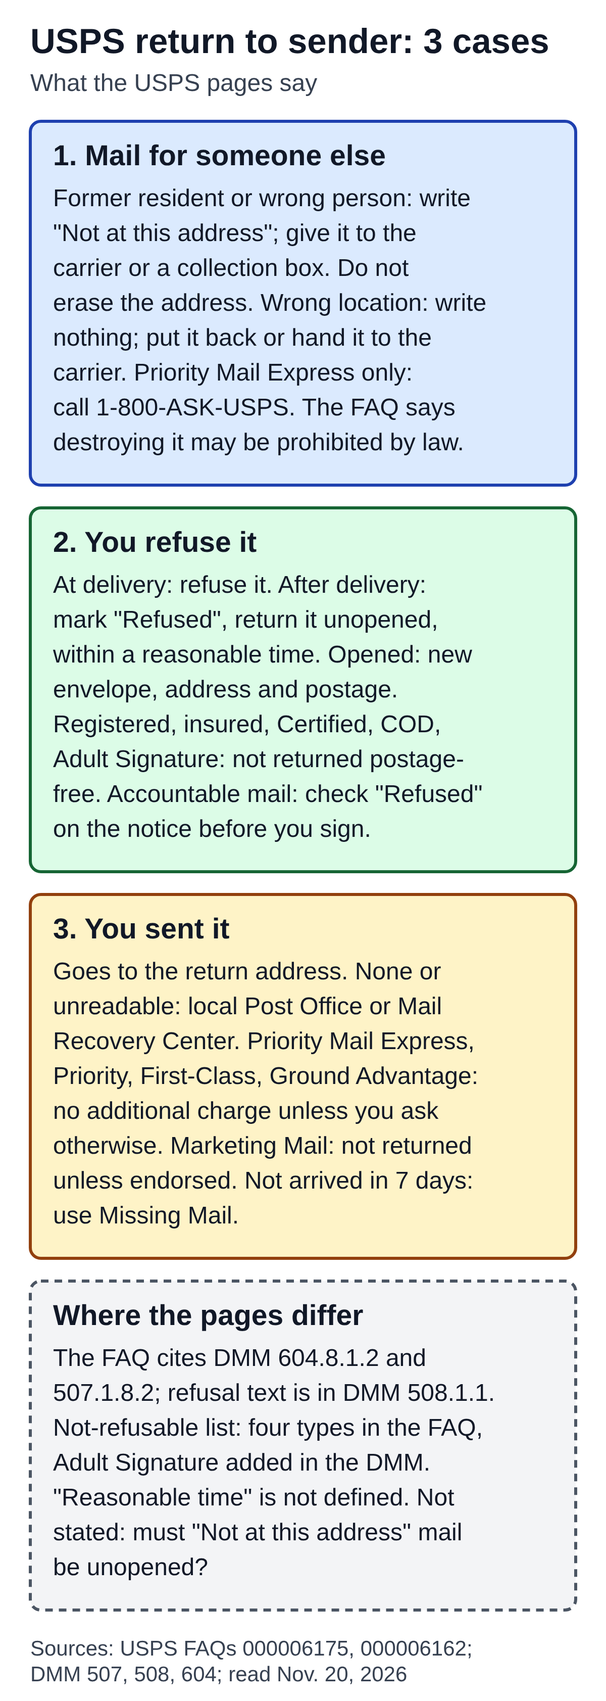
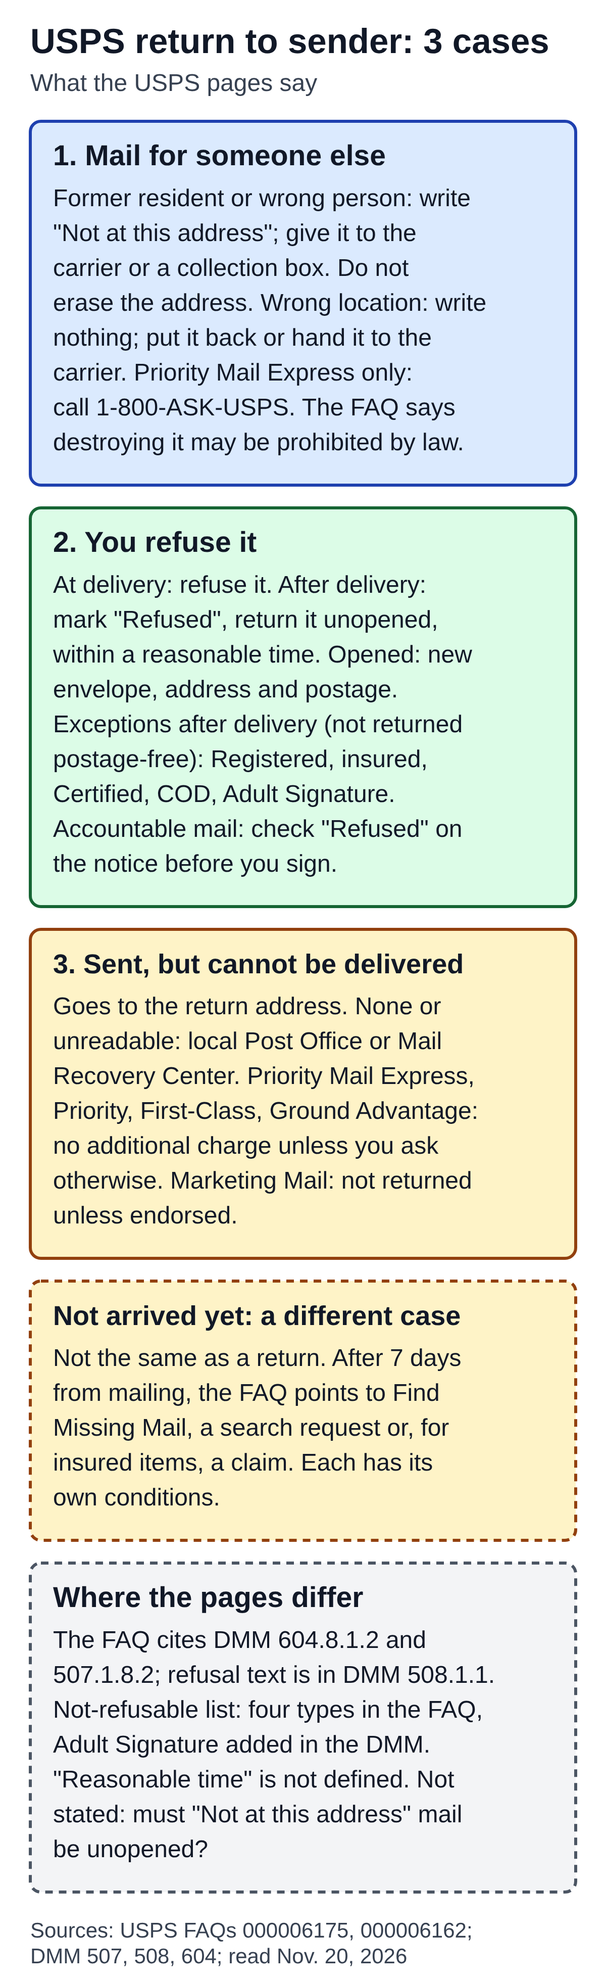
Apply Gate 2 round 1 FIX to the redelivery and return to sender drafts
Redelivery: add the USPS Electronic Signature Online exception to the body,
diagram and alt where signature mail was said to need you or your agent there.
Return to sender: separate returned mail from mail that has not arrived in the
diagram, alt, table and body; show the exceptions after delivery in the refuse
row. QA records, decision log and backlog updated.

Claude-Session: https://claude.ai/code/session_01BXtGEA3Qzg6u2ejRb8jbFU

diff --git a/content/drafts/usps-return-to-sender-how-it-works.md b/content/drafts/usps-return-to-sender-how-it-works.md
@@ -8,7 +8,7 @@ status: draft
 date: 2026-11-20
 internal_link_candidates: usps-missing-mail-search-how-it-works, usps-tracking-status-what-it-means, usps-mail-forwarding-how-long, usps-certified-mail-how-it-works (all live; each linked once in the body; decide at Gate 2). After the redelivery article is published, a link to it from the "refuse" section is proposed, not applied.
 image: assets/optimized/usps-return-to-sender-how-it-works.png
-image_alt: "What USPS pages say about return to sender, which they treat as three situations. 1, mail for someone else: for a previous resident or a person who does not live there, write 'Not at this address' and give it to the carrier or a collection box, without erasing the address; for a piece delivered to the wrong location, write nothing and put it back or hand it to the carrier; for Priority Mail Express only, call 1-800-ASK-USPS; the FAQ says destroying mail not meant for you may be prohibited by law. 2, you refuse it: refuse it when offered, or after delivery mark it 'Refused' and return it unopened within a reasonable time; an opened piece needs a new envelope, correct address and new postage; Registered, insured, Certified, COD and Adult Signature mail cannot be returned postage-free after delivery; accountable mail can be refused before signing by checking 'Refused' on the notice. 3, you sent it: it goes to the return address; with none, the local Post Office or the Mail Recovery Center handles it; Priority Mail Express, Priority Mail, First-Class Mail and USPS Ground Advantage are returned at no additional charge unless the sender asks otherwise; USPS Marketing Mail is not returned unless endorsed; if it has not arrived in 7 days, use Missing Mail. Where the pages differ: the refusal FAQ cites DMM 604.8.1.2 and 507.1.8.2 but the refusal text is in DMM 508.1.1; the FAQ's not-refusable list has four types and the DMM adds Adult Signature; a reasonable time is not defined; the pages do not say whether 'Not at this address' mail must be unopened. Sources: USPS FAQs 000006175 and 000006162 and DMM 507, 508 and 604, read Nov. 20, 2026."
+image_alt: "What USPS pages say about return to sender, which they treat as three situations. 1, mail for someone else: for a previous resident or a person who does not live there, write 'Not at this address' and give it to the carrier or a collection box, without erasing the address; for a piece delivered to the wrong location, write nothing and put it back or hand it to the carrier; for Priority Mail Express only, call 1-800-ASK-USPS; the FAQ says destroying mail not meant for you may be prohibited by law. 2, you refuse it: refuse it when offered, or after delivery mark it 'Refused' and return it unopened within a reasonable time; an opened piece needs a new envelope, correct address and new postage; Registered, insured, Certified, COD and Adult Signature mail cannot be returned postage-free after delivery; accountable mail can be refused before signing by checking 'Refused' on the notice. 3, you sent it and USPS cannot deliver it: it goes to the return address; with none, the local Post Office or the Mail Recovery Center handles it; Priority Mail Express, Priority Mail, First-Class Mail and USPS Ground Advantage are returned at no additional charge unless the sender asks otherwise; USPS Marketing Mail is not returned unless endorsed. Separate case, not arrived yet: this is not the same as a return; if it has not arrived within 7 days from mailing, the FAQ points to Find Missing Mail, a search request or, for insured items, a claim, each with its own conditions. Where the pages differ: the refusal FAQ cites DMM 604.8.1.2 and 507.1.8.2 but the refusal text is in DMM 508.1.1; the FAQ's not-refusable list has four types and the DMM adds Adult Signature; a reasonable time is not defined; the pages do not say whether 'Not at this address' mail must be unopened. Sources: USPS FAQs 000006175 and 000006162 and DMM 507, 508 and 604, read Nov. 20, 2026."
 ---
 
 # USPS Return to Sender: Refused, Misdelivered, Undeliverable
@@ -17,15 +17,17 @@ image_alt: "What USPS pages say about return to sender, which they treat as thre
 
 This article compares what two USPS FAQs and the Domestic Mail Manual (DMM) say: the FAQ "How is Undeliverable and Misdelivered Mail Handled?" (Article 000006175, dated May 19, 2026), the FAQ "Refuse unwanted mail and remove name from mailing lists" (Article 000006162, dated September 3, 2026), and DMM 508 (recipient options), 507 (returning mail and dead mail) and 604 (postage), read as posted on Postal Explorer on November 20, 2026. The DMM pages show no update date. It reports what the pages say and does not decide which wording governs.
 
-![What USPS pages say about return to sender, which they treat as three situations. 1, mail for someone else: for a previous resident or a person who does not live there, write 'Not at this address' and give it to the carrier or a collection box, without erasing the address; for a piece delivered to the wrong location, write nothing and put it back or hand it to the carrier; for Priority Mail Express only, call 1-800-ASK-USPS; the FAQ says destroying mail not meant for you may be prohibited by law. 2, you refuse it: refuse it when offered, or after delivery mark it 'Refused' and return it unopened within a reasonable time; an opened piece needs a new envelope, correct address and new postage; Registered, insured, Certified, COD and Adult Signature mail cannot be returned postage-free after delivery; accountable mail can be refused before signing by checking 'Refused' on the notice. 3, you sent it: it goes to the return address; with none, the local Post Office or the Mail Recovery Center handles it; Priority Mail Express, Priority Mail, First-Class Mail and USPS Ground Advantage are returned at no additional charge unless the sender asks otherwise; USPS Marketing Mail is not returned unless endorsed; if it has not arrived in 7 days, use Missing Mail. Where the pages differ: the refusal FAQ cites DMM 604.8.1.2 and 507.1.8.2 but the refusal text is in DMM 508.1.1; the FAQ's not-refusable list has four types and the DMM adds Adult Signature; a reasonable time is not defined; the pages do not say whether 'Not at this address' mail must be unopened. Sources: USPS FAQs 000006175 and 000006162 and DMM 507, 508 and 604, read Nov. 20, 2026.](assets/optimized/usps-return-to-sender-how-it-works.png)
+![What USPS pages say about return to sender, which they treat as three situations. 1, mail for someone else: for a previous resident or a person who does not live there, write 'Not at this address' and give it to the carrier or a collection box, without erasing the address; for a piece delivered to the wrong location, write nothing and put it back or hand it to the carrier; for Priority Mail Express only, call 1-800-ASK-USPS; the FAQ says destroying mail not meant for you may be prohibited by law. 2, you refuse it: refuse it when offered, or after delivery mark it 'Refused' and return it unopened within a reasonable time; an opened piece needs a new envelope, correct address and new postage; Registered, insured, Certified, COD and Adult Signature mail cannot be returned postage-free after delivery; accountable mail can be refused before signing by checking 'Refused' on the notice. 3, you sent it and USPS cannot deliver it: it goes to the return address; with none, the local Post Office or the Mail Recovery Center handles it; Priority Mail Express, Priority Mail, First-Class Mail and USPS Ground Advantage are returned at no additional charge unless the sender asks otherwise; USPS Marketing Mail is not returned unless endorsed. Separate case, not arrived yet: this is not the same as a return; if it has not arrived within 7 days from mailing, the FAQ points to Find Missing Mail, a search request or, for insured items, a claim, each with its own conditions. Where the pages differ: the refusal FAQ cites DMM 604.8.1.2 and 507.1.8.2 but the refusal text is in DMM 508.1.1; the FAQ's not-refusable list has four types and the DMM adds Adult Signature; a reasonable time is not defined; the pages do not say whether 'Not at this address' mail must be unopened. Sources: USPS FAQs 000006175 and 000006162 and DMM 507, 508 and 604, read Nov. 20, 2026.](assets/optimized/usps-return-to-sender-how-it-works.png)
 
 ## Three situations, three sets of rules
 
 | Situation | What the pages say you can do | Where it comes from |
 | --- | --- | --- |
 | Mail came to your address but is for someone else | Write "Not at this address" and hand it to your mail carrier or put it in a collection box, or, if it was delivered to the wrong location, put it back unmarked | FAQ 000006175 |
-| You are the addressee and do not want the mail | Refuse it when it is offered, or mark it "Refused" and return it unopened within a reasonable time | FAQ 000006162, DMM 508.1.1 |
-| You sent it and it did not arrive | It is returned to the return address if one can be read; if there is none, the local Post Office or the Mail Recovery Center handles it | FAQ 000006175, DMM 507.1.8 and 507.1.9 |
+| You are the addressee and do not want the mail | Refuse it when it is offered. After delivery, mark it "Refused" and return it unopened within a reasonable time, unless it is a type the DMM says cannot be refused and returned postage-free (Registered Mail, insured mail, Certified Mail, COD, Adult Signature) or it has been opened | FAQ 000006162, DMM 508.1.1 |
+| You sent it and USPS could not deliver it | USPS tries to return it to the return address; with no usable return address, the local Post Office or the Mail Recovery Center handles it | FAQ 000006175, DMM 507.1.8 and 507.1.9 |
+
+A piece that has not arrived yet is a different case from one that is being returned. For that, the FAQ points to Find Missing Mail, a search request or, for insured items, a claim, each with its own conditions; see the last part of the section on sending mail.
 
 ## Mail came to you for someone else
 
@@ -57,7 +59,7 @@ Postage due is a separate case. The FAQ on undeliverable mail says a shortpaid p
 
 Two other options appear on the refusal pages. The addressee may ask the postmaster in writing to withhold from delivery, for no more than 2 years, any foreign letter or printed matter with a specified name or address on the outside (DMM 508.1.1.4; the FAQ says "foreign letter or publication material"). And the FAQ points to services outside USPS for reducing marketing mail, the mail suppression service DMAchoice, run by the Association of National Advertisers and described as independent of USPS, and the credit-reporting companies' opt-out for prescreened offers. Those are not USPS actions, and this article does not cover them or give any fee.
 
-## You sent it and it is coming back, or did not arrive
+## You sent it: mail that is returned, and mail that has not arrived
 
 For undeliverable mail, the FAQ says that if USPS cannot deliver as addressed, it uses the return address to try to return it. DMM 507.1.8.3 says Priority Mail Express, Priority Mail, First-Class Mail, USPS Ground Advantage Retail and USPS Ground Advantage Commercial pieces that cannot be delivered as addressed or forwarded are, unless the sender asks otherwise, "returned to the sender at no additional charge." For other classes, DMM 507.1.8.4 says the mail is treated as appropriate for the class and the sender's instructions.
 
@@ -75,7 +77,7 @@ For mail with extra services, DMM 507.1.8.5 says that if a return receipt is att
 
 If a piece has no return address, or the return address cannot be read, the FAQ says it will either be handled by the local Post Office or sent to the Mail Recovery Center. A domestic piece with a foreign return address is handled under dead mail procedures. DMM 507.1.9 defines dead mail as undeliverable mail that cannot be returned, says some types are opened at a mail recovery center to find the sender or addressee, and says a customer can start an inquiry at the local Post Office with a Mail Recovery Center search form or through the Missing Mail online application.
 
-If a piece has not arrived within 7 days of mailing, the FAQ's three options are the Find Missing Mail page, a Missing Mail search request at MissingMail.USPS.com, or an online claim for insured items that meet the timeframe. Our [Missing Mail article](https://statesideexplained.com/usps-missing-mail-search-how-it-works/) covers that search. For tracking statuses that say a package is going back, such as "Insufficient Address" or "No Such Number," see our [tracking status article](https://statesideexplained.com/usps-tracking-status-what-it-means/).
+A piece that has not arrived is a different case from one that is being returned, and the FAQ does not say that a piece not delivered after 7 days is returned. If a piece has not arrived within 7 days from its date of mailing, the FAQ's three options are the Find Missing Mail page, a Missing Mail search request at MissingMail.USPS.com, or an online claim for insured items that meet the timeframe requirements. Our [Missing Mail article](https://statesideexplained.com/usps-missing-mail-search-how-it-works/) covers that search. For tracking statuses that say a package is going back, such as "Insufficient Address" or "No Such Number," see our [tracking status article](https://statesideexplained.com/usps-tracking-status-what-it-means/).
 
 The FAQ also mentions endorsements that a mailer prints on a piece in advance, such as Change Service Requested, Address Service Requested, Return Service Requested and Temp-Return Service Requested, and says some require payment of an address-correction fee. Those are tools for mailers rather than steps for a household sender, and this article does not read their definitions.
 

diff --git a/docs/content-backlog.md b/docs/content-backlog.md
@@ -24,7 +24,7 @@ Updated 2026-11-18 (USPS Thanksgiving (post 144) and USPS refunds (post 147) pub
 |---|---|---|
 | published | 12 (DST, TSA liquids, Forever stamp, first day of winter, power bank, Informed Delivery, Thanksgiving date, weekend holidays, Hold Mail, REAL ID, PreCheck, mail forwarding) | 23 (alcohol on a plane, published 2026-10-29; USPS Certified Mail and 2027 federal holidays list, published 2026-11-04; USPS Veterans Day, lighters on a plane and vape on a plane, published 2026-11-06; USPS PO Box, published 2026-11-09 KST; razor on a plane, USPS Package Intercept, deodorant on a plane and USPS Media Mail, published 2026-11-09; TSA shoes and laptops and USPS Package Pickup, published 2026-11-09; TSA locks, USPS holiday shipping deadlines, USPS Missing Mail search, how to address an envelope, USPS tracking status and USPS passport services, published 2026-11-13; USPS Priority Mail vs Ground Advantage, published 2026-11-17; USPS Thanksgiving and USPS refunds, published 2026-11-18; all post-pilot) |
 | ready | 0 | 0 |
-| draft | 0 | 3 (TSA holiday food, Gate 2 PASS, held until a TSA 2026 food notice is read; USPS redelivery, Gate 1 done 2026-11-20, waiting for Gate 2; USPS return to sender, Gate 1 done 2026-11-20, waiting for Gate 2; USPS Thanksgiving and USPS refunds were published 2026-11-18) |
+| draft | 0 | 3 (TSA holiday food, Gate 2 PASS, held until a TSA 2026 food notice is read; USPS redelivery, Gate 1 done 2026-11-20, Gate 2 round 1 FIX applied, waiting for the re-check; USPS return to sender, Gate 1 done 2026-11-20, Gate 2 round 1 FIX applied, waiting for the re-check; USPS Thanksgiving and USPS refunds were published 2026-11-18) |
 | brief | 0 | 0 (row 41, undeliverable and misdelivered mail, is an idea held for the user's scope decision) |
 | idea | 0 | 0 (the TSA shoe policy idea, row 15, was drafted as row 29 and is now published) |
 
@@ -73,8 +73,8 @@ Pilot 12 plan: 12 published + 0 ready + 0 draft + 0 briefs = 12 slots, 4 per lan
 | 37 | `usps-priority-mail-vs-ground-advantage` | Priority Mail vs. Ground Advantage: What USPS Pages Say | `priority mail vs ground advantage` | **published 2026-11-17** (post 135, media 134; Gate 1 PASS 21 of 21 claims; Gate 2 FIX on `745ec39` applied in `754b40d`, PASS on `754b40d`; the three USPS pages were re-read right before publishing with no change (same text length, 30 of 30, 25 of 25 and 9 of 9 phrases); live QA passed) | post-pilot (not counted) | Lane: postal service and stamps. Chosen 2026-11-17 on the user's approval of the sixth survey (`docs/next-candidates-2026-11-17.md`). Three USPS.com pages, none with an update date (Priority Mail, Ground Advantage, Shipping Insurance and Delivery Services); no USPS FAQ for Ground Advantage found. Demand: Google Trends relative indexes only ("usps ground advantage" about 7.2 x and "usps priority mail" about 8.3 x the tracking-status phrase, broad; the comparison phrase about 0.4 x); search volume not checked. Shown, not resolved: Priority Mail "does not come with a money-back guarantee" against a silent Ground Advantage page; "most shipments (restrictions apply)" against "$100 insurance is included"; Prepaid Forever insurance not stated. No prices ($100 and $5,000 only as coverage amounts). Links: pickup, holiday deadlines, tracking status, Certified Mail, Missing Mail. Re-read all three pages right before publishing. |
 | 38 | `usps-claim-how-it-works` | USPS Claims: Filing Periods, Who Can File and What You Need | `usps claim` | **published 2026-11-17** (post 138, media 137; Gate 1 PASS 26 claims; Gate 2 FIX on `745ec39` and `754b40d` applied, PASS on `b2340b5`; the four sources re-read right before publishing with no change; live QA passed; cross-links added to the Priority Mail vs Ground Advantage and Missing Mail posts) | post-pilot (not counted) | Lane: postal service and stamps. Chosen 2026-11-17 with row 37. Sources: USPS.com "File a Claim" (no update date), USPS FAQ 000006089 (Nov 6, 2026), DMM 609 (no date), one line each from the insurance page. Role split from the published Missing Mail post (search against claim); the new post links to it, and the link-only edits to the Missing Mail and Priority Mail vs Ground Advantage posts were applied after publication (2026-11-17). Demand: Google Trends relative indexes only ("usps claim" about 3.5 x the tracking-status phrase); search volume not checked. Shown, not resolved: no domestic Ground Advantage row in the DMM chart; original receipt against photocopy accepted against claim without receipt; online label record plus evidence of mailing; appeal clock from receipt against from the decision date; saved claims 3 days. No amounts, caps or fees. Re-read the three sources right before publishing. |
 | 39 | `usps-refund-how-it-works` | USPS Refunds: What Can Be Refunded, When to Ask and What You Need | `usps refund` | **published 2026-11-18** (post 147, media 146; Gate 1 done by Claude: 41 claims, 9 image checks; Gate 2 round 1 on `be17de1` = FIX, applied; round 2 on `f6acd07` = PASS; moved to ready 2026-11-18; live URL https://statesideexplained.com/usps-refund-how-it-works/ ; live QA passed, see `editorial/qa/` record) | post-pilot (not counted) | Lane: postal service and stamps. Chosen 2026-11-18 on the user's approval of the seventh survey (`docs/next-candidates-2026-11-18.md`). Sources: USPS.com "Request a USPS Refund: Domestic" (no update date), DMM 604.9 (no date), FAQ 000005310 (Sep 26, 2024; pointer page), FAQ PO Box 000005315 (Nov 13, 2026; PO Box difference only), one claims FAQ sentence (000006089). User instructions: separate the Click-N-Ship 30 and 60 days (account route vs older-label email route, both from the print date; the DMM's own 30 and 60 days are PC Postage rules that do not name Click-N-Ship), keep refund and claim apart, report conflicts with published posts (none direct; PO Box, Package Intercept and extra-service counting differences shown, see the QA record). Demand: Google Trends relative index only ("usps refund" about 2.1 x the tracking-status phrase, broad); search volume not checked. No amounts, fees or percentages. Links: claims, Missing Mail, Certified Mail, PO Box, Package Intercept, Package Pickup, holiday shipping deadlines. **Gate 2 on `be17de1` = FIX, applied 2026-11-18:** refund definition widened (conditions met, incl. Priority Mail Express guarantee), Click-N-Ship email route shown as more than 30 but less than 60 days with day 60 left open, windows marked as not a guarantee with links to the refund page and DMM 604.9; diagram, alt and meta updated; see the QA record. Re-read of the refund page (11,306 characters, unchanged), DMM 604.9 and the PO Box FAQ (dated Nov. 13, 2026) right before publishing, no change; published 2026-11-18 05:27 UTC at the user's instruction. Link-only follow-ups applied 2026-11-18 to Claims (138), Missing Mail (123), Certified Mail (72) and PO Box (88); Package Intercept, Package Pickup and holiday deadlines not linked yet (see the QA record, "Link follow-ups"). Reuse: re-read all three sources before any later edit. |
-| 40 | `usps-redelivery-how-it-works` | USPS Redelivery: How to Schedule It, Cutoffs and Return Dates | `usps redelivery` | **draft 2026-11-20** (Gate 1 done by Claude: 41 claims, 10 image checks; waiting for Gate 2) | post-pilot (not counted) | Lane: postal service and stamps. Chosen 2026-11-20 from the user's two proposals (`docs/next-candidates-2026-11-20.md`). Sources: USPS FAQ "Redelivery - The Basics" (000005320, Sep 16, 2026), FAQ 000006169 (Apr 7, 2026), FAQ "PS Form 3849 Redelivery Notice" (000006180, Jun 29, 2026), USPS.com "Schedule a Redelivery" (no date). Excluded on 2026-11-13 as covered by the tracking post before the FAQs were read; reopened because the FAQs hold scheduling, cutoff, return-date and eligibility rules the tracking post lacks (role split in the brief). Demand: Google Trends relative index only (about 0.6 x "usps tracking status" over 90 days); search volume not checked. No prices. Source differences shown (return-date wording, COD 10 against 30 days, change deadline, unexplained status list). Links: tracking status, Informed Delivery, Certified Mail. Re-read all four pages right before publishing. |
-| 41 | `usps-return-to-sender-how-it-works` | USPS Return to Sender: Refused, Misdelivered, Undeliverable | `usps return to sender` | **draft 2026-11-20** (Gate 1 done by Claude: 43 claims, 110 phrase checks, 8 image checks; waiting for Gate 2) | post-pilot (not counted) | Lane: postal service and stamps. Reframed from the held idea "undeliverable and misdelivered mail" on the user's instruction of 2026-11-20 (`docs/next-candidates-2026-11-20.md`). Sources: FAQ 000006175 (May 19, 2026), FAQ 000006162 (Sep 3, 2026), DMM 508.1.1, DMM 507.1.8 and 1.9, DMM 604.8.1 (no update dates). Three situations kept apart (mail for someone else, refusing mail, a sender's mail returned). Demand: Trends relative only (about 0.95 x redelivery over 90 days); search volume not checked. Open source differences shown in the article: section numbers cited by the FAQ, four against five non-refusable types, "Refused" against "Not at this address", "reasonable time" undefined. Overlap with Missing Mail, Mail Forwarding, Tracking status and Certified Mail handled by one sentence and one link each; a link from the redelivery post is proposed after publication. Re-read all five sources right before publishing. |
+| 40 | `usps-redelivery-how-it-works` | USPS Redelivery: How to Schedule It, Cutoffs and Return Dates | `usps redelivery` | **draft 2026-11-20** (Gate 1 done by Claude: 41 claims, 10 image checks; Gate 2 round 1 on `5662d08` = FIX (electronic-signature exception in the diagram, alt and a body sentence), applied; waiting for the re-check) | post-pilot (not counted) | Lane: postal service and stamps. Chosen 2026-11-20 from the user's two proposals (`docs/next-candidates-2026-11-20.md`). Sources: USPS FAQ "Redelivery - The Basics" (000005320, Sep 16, 2026), FAQ 000006169 (Apr 7, 2026), FAQ "PS Form 3849 Redelivery Notice" (000006180, Jun 29, 2026), USPS.com "Schedule a Redelivery" (no date). Excluded on 2026-11-13 as covered by the tracking post before the FAQs were read; reopened because the FAQs hold scheduling, cutoff, return-date and eligibility rules the tracking post lacks (role split in the brief). Demand: Google Trends relative index only (about 0.6 x "usps tracking status" over 90 days); search volume not checked. No prices. Source differences shown (return-date wording, COD 10 against 30 days, change deadline, unexplained status list). Links: tracking status, Informed Delivery, Certified Mail. Re-read all four pages right before publishing. |
+| 41 | `usps-return-to-sender-how-it-works` | USPS Return to Sender: Refused, Misdelivered, Undeliverable | `usps return to sender` | **draft 2026-11-20** (Gate 1 done by Claude: 43 claims, 110 phrase checks, 8 image checks; Gate 2 round 1 on `ec2de70` = FIX (returned and not-arrived mail mixed in the diagram and table; exceptions after delivery missing from the table), applied; waiting for the re-check) | post-pilot (not counted) | Lane: postal service and stamps. Reframed from the held idea "undeliverable and misdelivered mail" on the user's instruction of 2026-11-20 (`docs/next-candidates-2026-11-20.md`). Sources: FAQ 000006175 (May 19, 2026), FAQ 000006162 (Sep 3, 2026), DMM 508.1.1, DMM 507.1.8 and 1.9, DMM 604.8.1 (no update dates). Three situations kept apart (mail for someone else, refusing mail, a sender's mail returned). Demand: Trends relative only (about 0.95 x redelivery over 90 days); search volume not checked. Open source differences shown in the article: section numbers cited by the FAQ, four against five non-refusable types, "Refused" against "Not at this address", "reasonable time" undefined. Overlap with Missing Mail, Mail Forwarding, Tracking status and Certified Mail handled by one sentence and one link each; a link from the redelivery post is proposed after publication. Re-read all five sources right before publishing. |
 
 ## Rejected
 

diff --git a/content/drafts/usps-redelivery-how-it-works.md b/content/drafts/usps-redelivery-how-it-works.md
@@ -8,7 +8,7 @@ status: draft
 date: 2026-11-20
 internal_link_candidates: usps-tracking-status-what-it-means, usps-informed-delivery-how-it-works, usps-certified-mail-how-it-works (all published; each linked once in the body; decide at Gate 2). After publication, a link-only edit to the tracking status post (which says it does not give the time limit) is proposed, not applied.
 image: assets/optimized/usps-redelivery-how-it-works.png
-image_alt: "Diagram of what USPS pages say about redelivery. Notice left, PS Form 3849: a delivery was attempted but not completed; the form lists carrier redelivery, Post Office pickup, or a Smart Locker if that box is checked. Schedule it, free, for a day rather than a time: with the QR code or online using the tracking or barcode number, by phone with the tracking number, or on the paper form for non-accountable mail only; for same-day redelivery, submit by 2 AM CST, Monday to Saturday. Change or cancel online with the confirmation number no later than the day before; only one request is allowed and a Return to Sender request cannot be changed. Who can accept: the addressee or an authorized agent, at the original address only; for signature mail, you or your agent must be there and signing the notice is not enough. How long it is held, in calendar days: Priority Mail Express 5 days after the first attempt; extra-service items 15 days; Collect on Delivery 30 days in one USPS table and 10 days in the text; the final notice shows the Return Date. Cannot schedule: an item already returned to the sender, an existing request, or an address that does not match the original. Sources: USPS FAQs 000005320, 000006169 and 000006180 and the USPS.com Schedule a Redelivery page, read Nov. 20, 2026."
+image_alt: "Diagram of what USPS pages say about redelivery. Notice left, PS Form 3849: a delivery was attempted but not completed; the form lists carrier redelivery, Post Office pickup, or a Smart Locker if that box is checked. Schedule it, free, for a day rather than a time: with the QR code or online using the tracking or barcode number, by phone with the tracking number, or on the paper form for non-accountable mail only; for same-day redelivery, submit by 2 AM CST, Monday to Saturday. Change or cancel online with the confirmation number no later than the day before; only one request is allowed and a Return to Sender request cannot be changed. Who can accept: the addressee or an authorized agent, at the original address only; for signature mail, you or your agent must be there unless you use USPS Electronic Signature Online, which Informed Delivery subscribers can use for certain services; signing the notice is not enough. How long it is held, in calendar days: Priority Mail Express 5 days after the first attempt; extra-service items 15 days; Collect on Delivery 30 days in one USPS table and 10 days in the text; the final notice shows the Return Date. Cannot schedule: an item already returned to the sender, an existing request, or an address that does not match the original. Sources: USPS FAQs 000005320, 000006169 and 000006180 and the USPS.com Schedule a Redelivery page, read Nov. 20, 2026."
 ---
 
 # USPS Redelivery: How to Schedule It, Cutoffs and Return Dates
@@ -17,7 +17,7 @@ image_alt: "Diagram of what USPS pages say about redelivery. Notice left, PS For
 
 This article compares four USPS sources: the USPS FAQ "Redelivery - The Basics" (Article 000005320, dated September 16, 2026), the FAQ "What are the Second and Final Notice and Return Dates for Redelivery?" (Article 000006169, dated April 7, 2026), the FAQ "PS Form 3849 Redelivery Notice" (Article 000006180, dated June 29, 2026) and the USPS.com page "Schedule a Redelivery" (no update date shown). The wording is as of November 20, 2026. The sources overlap but do not always agree, and the article shows where they differ instead of choosing one. It gives no prices or fees. It does not cover delivery to a USPS Smart Locker beyond what the notice says, international or customs items, perishable parcels, or the USPS Delivery Instructions service itself.
 
-![Diagram of what USPS pages say about redelivery. Notice left, PS Form 3849: a delivery was attempted but not completed; the form lists carrier redelivery, Post Office pickup, or a Smart Locker if that box is checked. Schedule it, free, for a day rather than a time: with the QR code or online using the tracking or barcode number, by phone with the tracking number, or on the paper form for non-accountable mail only; for same-day redelivery, submit by 2 AM CST, Monday to Saturday. Change or cancel online with the confirmation number no later than the day before; only one request is allowed and a Return to Sender request cannot be changed. Who can accept: the addressee or an authorized agent, at the original address only; for signature mail, you or your agent must be there and signing the notice is not enough. How long it is held, in calendar days: Priority Mail Express 5 days after the first attempt; extra-service items 15 days; Collect on Delivery 30 days in one USPS table and 10 days in the text; the final notice shows the Return Date. Cannot schedule: an item already returned to the sender, an existing request, or an address that does not match the original. Sources: USPS FAQs 000005320, 000006169 and 000006180 and the USPS.com Schedule a Redelivery page, read Nov. 20, 2026.](assets/optimized/usps-redelivery-how-it-works.png)
+![Diagram of what USPS pages say about redelivery. Notice left, PS Form 3849: a delivery was attempted but not completed; the form lists carrier redelivery, Post Office pickup, or a Smart Locker if that box is checked. Schedule it, free, for a day rather than a time: with the QR code or online using the tracking or barcode number, by phone with the tracking number, or on the paper form for non-accountable mail only; for same-day redelivery, submit by 2 AM CST, Monday to Saturday. Change or cancel online with the confirmation number no later than the day before; only one request is allowed and a Return to Sender request cannot be changed. Who can accept: the addressee or an authorized agent, at the original address only; for signature mail, you or your agent must be there unless you use USPS Electronic Signature Online, which Informed Delivery subscribers can use for certain services; signing the notice is not enough. How long it is held, in calendar days: Priority Mail Express 5 days after the first attempt; extra-service items 15 days; Collect on Delivery 30 days in one USPS table and 10 days in the text; the final notice shows the Return Date. Cannot schedule: an item already returned to the sender, an existing request, or an address that does not match the original. Sources: USPS FAQs 000005320, 000006169 and 000006180 and the USPS.com Schedule a Redelivery page, read Nov. 20, 2026.](assets/optimized/usps-redelivery-how-it-works.png)
 
 ## What the notice is and when you get one
 
@@ -53,7 +53,7 @@ The FAQ's list of error messages adds three limits. There is a maximum of one re
 
 The FAQ says a residential redelivery goes to the addressee or the addressee's agent, and that the item can be redelivered only to the original address on the mailpiece. An agent is a person you authorize either on PS Form 3801 (Standing Delivery Order) or in a letter to the postmaster; at the Post Office, the agent needs acceptable identification. The FAQ adds that the carrier is not required to check whether a person accepting a package at the home or business is truly the authorized agent. For a pickup, you can also name someone on the notice itself by signing the form and writing the person's name; that option is not available for Registered Mail or Restricted Delivery.
 
-For accountable mail (items that require a signature or the payment of fees), the addressee or an authorized agent must be present to sign. Both FAQs say that signing the notice and leaving it for the carrier does not meet that requirement. For businesses, an individual employee must sign; the business itself cannot, and the carrier must be able to enter the signer's first initial and last name. The PS Form 3849 FAQ says an Informed Delivery subscriber can sign up for USPS Electronic Signature Online to sign electronically for domestic Priority Mail Express, Signature Confirmation and certain insured items. Our [Certified Mail article](https://statesideexplained.com/usps-certified-mail-how-it-works/) covers who signs for that service.
+For accountable mail (items that require a signature or the payment of fees), the PS Form 3849 FAQ answers "Do I have to be present to sign for my mailpiece?" with "Maybe." If you are an Informed Delivery subscriber, you can sign up for USPS Electronic Signature Online, which lets you sign electronically for domestic Priority Mail Express items, Signature Confirmation items and insured items over a stated value. Otherwise, the FAQ says you or an authorized agent must be present to sign for accountable mail delivered by a carrier. Both FAQs say that signing the notice and leaving it for the carrier does not meet the minimum requirements for redelivery. For businesses, an individual employee must sign; the business itself cannot, and the carrier must be able to enter the signer's first initial and last name. Our [Certified Mail article](https://statesideexplained.com/usps-certified-mail-how-it-works/) covers who signs for that service.
 
 ## What gets a notice, and how long items are held
 

diff --git a/editorial/qa/usps-return-to-sender-how-it-works.md b/editorial/qa/usps-return-to-sender-how-it-works.md
@@ -85,3 +85,18 @@ No conflicts in the facts of the published posts were found. The wording "return
 ## Not checked
 
 The WordPress draft, mobile layout (375 px, 320 px), editor validity and the live page have not been checked; this is a repository draft. Search volume was not checked; Trends numbers are relative indexes.
+
+## Gate 2 round 1 (reviewer, on `ec2de70`): FIX — applied 2026-11-20
+
+**Finding 1.** The sender card in the diagram and alt had "Goes to the return address" and "Not arrived in 7 days: use Missing Mail" together, which could read as if every piece not arrived after 7 days is returned automatically; the first table's row "You sent it and it did not arrive" had the same problem. **Finding 2.** The first table's refuse row did not show that after delivery the return has exceptions (the DMM lists the mail types that cannot be refused and returned postage-free).
+
+**Changes:**
+1. Diagram: card 3 is now "3. Sent, but cannot be delivered" (return address; no usable return address: local Post Office or Mail Recovery Center; the four classes returned at no additional charge unless the sender asks otherwise; Marketing Mail not returned unless endorsed). A new dashed card "Not arrived yet: a different case" says: not the same as a return; after 7 days from mailing the FAQ points to Find Missing Mail, a search request or, for insured items, a claim; each has its own conditions. Card 2 now says "Exceptions after delivery (not returned postage-free): Registered, insured, Certified, COD, Adult Signature." Image now 1200 x 3924.
+2. Alt (front matter and body image) and the SVG title carry the same split (alt now 1,865 characters).
+3. Table row 3 now reads "You sent it and USPS could not deliver it | USPS tries to return it to the return address; with no usable return address, the local Post Office or the Mail Recovery Center handles it". A sentence under the table says a piece that has not arrived yet is a different case from one being returned and points to Find Missing Mail, a search request or, for insured items, a claim, each with its own conditions.
+4. Table row 2 now reads: refuse it when it is offered; after delivery, mark it "Refused" and return it unopened within a reasonable time, unless it is a type the DMM says cannot be refused and returned postage-free (Registered Mail, insured mail, Certified Mail, COD, Adult Signature) or it has been opened.
+5. Body: the H2 is now "You sent it: mail that is returned, and mail that has not arrived", and the paragraph on the 7-day options starts "A piece that has not arrived is a different case from one that is being returned, and the FAQ does not say that a piece not delivered after 7 days is returned." The three options and "timeframe requirements" for insured items follow S1.
+
+**Re-check:** every changed statement restates text already matched in S1 (7 days from the date of mailing; the three options; the claim for insured items meeting the timeframe requirements) and S3 (the five types; unopened; reasonable time); the added absence statement ("does not say … returned") was checked by reading the whole undeliverable-mail FAQ section. No fee, price or percentage was added. The reviewer's note that the three-situation split, the two markings ("Not at this address" for the right location with the wrong person, no marking for the wrong location) and the way the cited section numbers are explained are fine is kept as is.
+
+**Files after the fix:** md 20,068 B `b97bf2cdc7a509d6`; PNG 1200 x 3924, 753,824 B `25e2037ecd474e29`; SVG 7,901 B `063a32bbd9927356` (no C2PA data; equal to the originals). The script check for text past the right margin returned an empty list. The WordPress draft and mobile layout are still not checked.

diff --git a/editorial/qa/usps-redelivery-how-it-works.md b/editorial/qa/usps-redelivery-how-it-works.md
@@ -94,3 +94,16 @@ No direct contradiction was found.
 ## Result and next step
 
 Gate 1: **PASS** (41 of 41 claims, 10 of 10 image checks). Next: user push, Gate 2 by commit SHA, then approval to move to `ready`; WordPress only after the Gate 2 PASS.
+
+## Gate 2 round 1 (reviewer, on `5662d08`): FIX — applied 2026-11-20
+
+**Finding.** The diagram, the front-matter alt and the body image alt said that for signature mail "you or your agent must be there", and the body sentence before the electronic-signature sentence said the addressee or an agent "must be present to sign". The PS Form 3849 FAQ (S3) answers "Do I have to be present to sign for my mailpiece?" with "Maybe": an Informed Delivery subscriber can sign up for USPS Electronic Signature Online and sign electronically for domestic Priority Mail Express items, Signature Confirmation items and insured items over a stated value; "Otherwise, you or an authorized agent must be present to sign for accountable mail being delivered by a mail carrier"; and signing the notice and leaving it for the carrier "does not meet the minimum requirements for redelivery".
+
+**Changes (four places, same meaning):**
+1. Body, "Who can accept it", second paragraph: now quotes the FAQ's question and "Maybe", gives the Electronic Signature Online option limited to Informed Delivery subscribers and the three named services (insured items "over a stated value", no amount), then "Otherwise … you or an authorized agent must be present", then "signing the notice and leaving it … does not meet the minimum requirements for redelivery". The business-signer sentence and the Certified Mail link are unchanged.
+2. Diagram card "Who can accept it": "Signature mail: you or your agent must be there, unless you use USPS Electronic Signature Online (Informed Delivery; certain services). Signing the notice is not enough." Card grew by three lines; image now 1200 x 3654.
+3. Front-matter `image_alt` and 4. body image alt: "for signature mail, you or your agent must be there unless you use USPS Electronic Signature Online, which Informed Delivery subscribers can use for certain services; signing the notice is not enough." The SVG `<title>` has the same text.
+
+**Re-check against S3 (read again 2026-11-20 in the built-in browser):** 7 of 7 phrases matched (the question and "Maybe"; the Informed Delivery subscriber and Electronic Signature Online sentence; the three services; "Otherwise …"; the minimum-requirements sentence; the business employee sentence and the first-initial-and-last-name sentence). The earlier claim C22 ("both FAQs say that signing the notice … is not enough") is kept; the body wording "minimum requirements" follows S3. The COD 10 days (text) against 30 days (table) display is kept, as the reviewer said it may be.
+
+**Files after the fix:** md 17,826 B `e484d0c8b0097886`; PNG 1200 x 3654, 656,925 B `c150364d073cced2`; SVG 6,680 B `a51ccf29174defed` (no C2PA data; equal to the originals). The script check for text past the right margin returned an empty list. The WordPress draft and mobile layout are still not checked.

diff --git a/docs/decision-log.md b/docs/decision-log.md
@@ -1549,3 +1549,8 @@ The user proposed two posts: USPS redelivery and misdelivered USPS mail, asked f
 ## 2026-11-20 (KST) — USPS return to sender drafted as the second new post
 
 The user chose the reframed `usps return to sender` plan for the second post (Trends relative indexes were judged worth reviewing; search volume not checked) and asked for three situations kept apart: mail that reached the wrong person, mail the addressee wants to refuse, and a sender's mail that comes back, each checked against USPS pages without merging different rules. Read on 2026-11-20: FAQ 000006175, FAQ 000006162, DMM 508.1.1, DMM 507.1.8 and 1.9, DMM 604.8.1. The draft is about 2,470 words (seven H2 sections, one table, four internal links), diagram 1200 x 3366, Gate 1 43 claims and 108 of 110 phrase checks at once (the two others were my phrasing), 8 image checks. Findings kept visible in the article: the refusal FAQ cites DMM 604.8.1.2 and 507.1.8.2 while the refusal text read is in DMM 508.1.1.2 and 508.1.1.3 (604.8.1.2 covers insufficient postage); the FAQ lists four non-refusable types and the DMM five; "Refused" is used on a misdelivered redelivery notice but "Not at this address" on a letter; "reasonable time" is not defined; the pages do not say whether "Not at this address" mail may be opened. One diagram line was reworded after a check ("Keep the address legible" was not the FAQ's wording; now "Do not erase the address"). The overlap check against Missing Mail, Mail Forwarding, Tracking status and Certified Mail found no conflict; each gets one sentence and one link. The redelivery post is not mentioned in the body because it is not live; a link is proposed after it is published. Redelivery (`5662d08`) still waits for the user's push and Gate 2; the user has not judged PASS from the report. TSA food post stays on hold; the three optional links stay unapplied.
+
+## 2026-11-20 (KST) — Gate 2 round 1 on the redelivery and return to sender drafts: FIX, applied
+
+Both commits (`5662d08`, `ec2de70`) were on the remote `main`. The reviewer's FIX on redelivery: the diagram, alt and a body sentence said signature mail needs you or your agent there, without the USPS Electronic Signature Online exception in the PS Form 3849 FAQ ("Maybe"; Informed Delivery subscribers; domestic Priority Mail Express, Signature Confirmation and insured items over a stated value); fixed in the body, diagram, front-matter alt and image alt, with the exception limited to the FAQ's words. The COD 10 against 30 days display is kept. The FIX on return to sender: the sender card joined "goes to the return address" with "not arrived in 7 days"; now a return (cannot be delivered) and a piece that has not arrived are separate in the diagram, alt, table and body, and the refuse row of the table shows the exceptions after delivery. The three-situation split, the two markings and the explanation of the cited section numbers stay as written. Neither post is published; PASS is needed first. TSA food post stays on hold; the three optional links stay unapplied.
+
